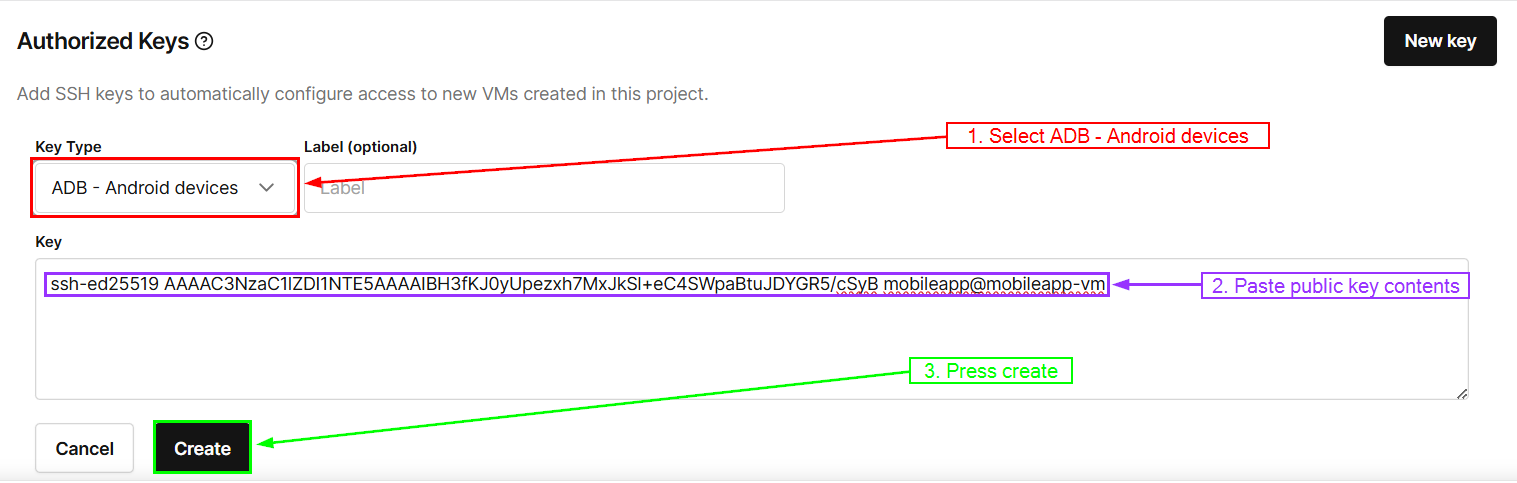
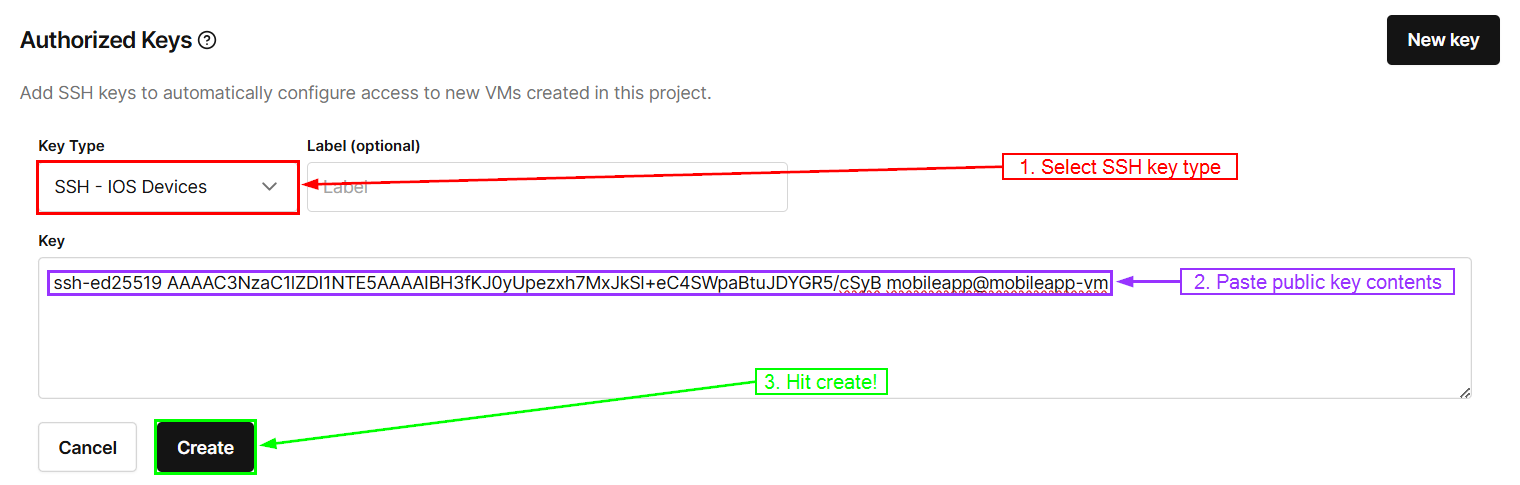
Finalized Lab 0

diff --git a/Labs/LAB_00_Corellium_Setup/gettingstarted.md b/Labs/LAB_00_Corellium_Setup/gettingstarted.md
@@ -107,6 +107,9 @@ Now, click on "Default Project" to expand:
 
 5. Under the **Authorized Keys** section, click **NEW KEY**, then select **SSH** for the *Key Type*, and copy the contents of your ssh public key (step 2 above) and paste it in the text box here. Click **CREATE**.
 
+>[!Important]
+>Even though there is a Key Type option that says "ADB - Android devices", you must select the SSH method.
+
 ![](images/createnewkey.png)
 
 >[!Note]
@@ -126,7 +129,7 @@ Now, click on "Default Project" to expand:
 
 3. Return to your MobileApp VM, then paste the command into a terminal session. The command will be slightly different for each student; however, be sure to add the `-i sshKey` at the end of the command you just pasted.
 
-![Connect - SSH Command](images/ssh-connect-command.jpg)
+![Connect - SSH Command](images/connectingtossh.png)
 
 4. The above command will create an SSH tunnel between your MobileApp VM and the virtual device in Corellium. The command also sets a *control socket* and binds the connection to `localhost:5001`. Now we can connect the Android Debug Bridge (adb) using the following command.
 
@@ -142,14 +145,13 @@ Now, click on "Default Project" to expand:
 
 ![](images/adb_commands.png)
 
-**NOTE:** There's a dedicated [lab](https://github.com/deruke/AndroidLabs/blob/main/Labs/adb/adb_cheatsheet/adb_cheatsheet.md) on utilizing adb and adb commands.
+>[!Note] There is a dedicated [lab](/Labs/LAB_01_adb_basics/adb_cheatsheet.md) on utilizing adb and adb commands.
 
 6. Finally, to terminate the SSH tunnel run the following command.
 
-`ssh -Ssock -O exit proxy.corellium.com`
+<pre>ssh -Ssock -O exit proxy.corellium.com</pre>
 
-![Terminate SSH Tunnel](images/ssh-terminate.jpg)
-
+![Terminate SSH Tunnel](images/adblist.png)
 
 ## VPN ##
 
@@ -165,9 +167,13 @@ An alternative approach to SSH for remote connectivity is to use a VPN. Corelliu
 ![](images/vpnoption.png)
 
 3. Save the downloaded OVPN file to a directory/location on the MobileApp VM.
-<img width="582" alt="Screenshot 2023-12-30 at 11 20 51 AM" src="https://github.com/deruke/AndroidLabs/assets/22796374/4d376964-ea1f-4e00-9e28-5e6581e4b87e">
 
-![Downloaded OVPN File](images/openvpn-local.jpg)
+>[!Note]
+>To do this, you can copy and paste the file into your VM from your host device, just make sure that it ends up in your `Downloads` folder on the VM.
+
+![](images/pastovpnfile.png)
+
+![Downloaded OVPN File](images/showthefile.png)
 
 4. Prior to establishing the VPN, run the following command from a terminal session on your MobileApp VM to get a current list of network interfaces.
 
@@ -177,7 +183,8 @@ An alternative approach to SSH for remote connectivity is to use a VPN. Corelliu
 
  ![](images/ip_a_command.png)
 
-**NOTE**: Your output may not match exactly – the key takeaway here is understanding the current existing network interfaces prior to establishing the VPN.
+>[!Note]
+>Your output may not match exactly – the key takeaway here is understanding the current existing network interfaces prior to establishing the VPN.
 
 5. Next, run the following command from a terminal session on your MobileApp VM.
 
@@ -217,7 +224,7 @@ Once you get to the shell, run the following:
 
  - In the screen capture below, we can see that the virtual mobile device (10.11.0.3) and our MobileApp VM (10.11.3.2) are communicating over a private network connection.
 
- ![tcpdump attached to tap0 interface](images/tcpdump-tap0.jpg)
+ ![tcpdump attached to tap0 interface](images/pingcorellium.png)
 
  When you are finished, you can press `ctrl + c` in both the MobileApp VM and the Corellium console to stop the processes for running.
 
